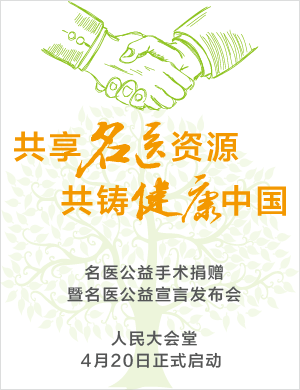
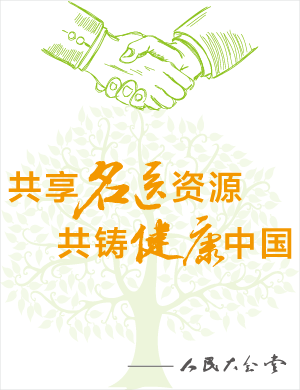
v5 百万公益基金修改

Changed region(s): [[0.03, 0.3077, 0.99, 0.8], [0.27, 0.8308, 0.96, 0.9538]]

diff --git a/themes/v5/css/event-millionfund.css b/themes/v5/css/event-millionfund.css
@@ -1,15 +1,17 @@
 #site-content{padding-bottom:0px!important;}
 .bg-millonfund{background-color:#f6e5cd;}
-#millonfund-content{line-height:1em;padding-bottom:300px;}
-#millonfund-content .header{font-size:21px;color:#21a59c;margin:0 auto;line-height:21px;}
-.mt14{margin-top:14px;}
-.mt16{margin-top:16px;}
-.mt25{margin-top:25px;}
-.mt32{margin-top:32px;}
-.mt46{margin-top:46px;}
-.ml44{margin-left:44px;}
-.color-21a59c{color:#21a59c;}
-.pl7{padding-left:7px!important;}
-.pr6{padding-right:6px!important;}
-#millonfund-content .tag{padding:5px 20px;background-color:#e73828;color:#fff;background-size:300px 200px; }
-#millonfund-content .ten-thousand{background-color:#e73828;color:#fff;}
+.w22{width:22%;}
+.text21{font-size:21px;}
+.color-e50011{color:#e50011;}
+.text16{font-size:16px;}
+.color-19aea5{color:#19aea5;}
+.mb100{margin-bottom:100px;}
+.mt-130{margin-top:-130px;}
+#millonfund .main-content .red-heading{font-size:21px;color:#e50011;}
+#millonfund .main-content .img-middle{margin-top:-215px;}
+#millonfund .main-content .img-middle>img{display:inline-block;}
+#millonfund .apply .number-mark{background-color:#f8b62c;width:20px;height:20px;border-radius:10px;color:#fff;display:inline-block;text-align:center;margin-left:-25px;margin-right:5px;}
+.table-top-yellow-mark{background-color:#f8b62c;color:#fff;display:inline-block;width:300px;height:40px;border-radius:4px;font-size:21px;padding-top:4px;margin-bottom:20px;}
+.millonfund-table>thead>tr>th{border-bottom:none!important;}
+.millonfund-table>tbody>tr>td{border-bottom:1px solid #777!important;}
+.bg-fad5a9{background-color:#fad5a9;}

diff --git a/themes/v5/css/mygy.css b/themes/v5/css/mygy.css
@@ -1,5 +1,5 @@
 #site-content{padding-bottom:0!important;}
-.mygy-header{background:url(../images/mygy/bg-sun.jpg) no-repeat 100% 100%;height:600px;}
+.mygy-header{background:url(http://7xsq2z.com2.z0.glb.qiniucdn.com/146181214352032) no-repeat 100% 100%;height:600px;}
 .mygy-header div{vertical-align:middle;padding-top:167px;}
 #mygy{background-color:#f7f7f7;padding-bottom:100px;}
 #mygy .question .header{background-color:#87ccc5;padding:20px 20px 15px;font-size:24px;color:#fff;}
@@ -11,6 +11,7 @@
 #mygy .flowChart .content{padding:25px 22px 0;}
 #mygy .flowChart .content .color-555{color:#555;}
 #mygy .flowChart{background-color:#fff;}
+#mygy .news>img{cursor:pointer;}
 #mygy .news .title{text-align:center;font-size:24px;border-bottom:1px dashed #dcdcdd;margin-bottom:5px;border:1px solid #dcdcdd;}
 
 #mygy .cutover .line-btn{border-bottom:5px solid #dcdcdd;width:50px;display:inline-block;height:10px;}

diff --git a/themes/v5/views/event/pages/millionfund.php b/themes/v5/views/event/pages/millionfund.php
@@ -1,49 +1,100 @@
 <?php
 $urlResImage = Yii::app()->theme->baseUrl . "/images/";
-$urlQuickBook = $this->createUrl('booking/quickbook');
-Yii::app()->clientScript->registerCssFile(Yii::app()->theme->baseUrl . "/css/event-millionfund.css");
+Yii::app()->clientScript->registerCssFile(Yii::app()->theme->baseUrl . "/css/event-millionfund.css?v=" . time());
 ?>
-<div class="container-fluid pt30 bg-millonfund">
-    <div class="row">
-        <img src="<?php echo $urlResImage; ?>event/millionfund/header.png" class="img-responsive" alt="" />
+<div class="container-fluid pt30 bg-millonfund" id="millonfund">
+    <img src="http://7xsq2z.com2.z0.glb.qiniucdn.com/146183901301572" class="img-responsive"/>
+    <div class="text-center main-content">
+        <div class="img-middle"><img src="http://7xsq2z.com2.z0.glb.qiniucdn.com/146183901297115" class="img-responsive"/></div>
+        <div class="mt-130">
+            <div>名医主刀通过整合全国优质医疗资源</div>
+            <div class="mt10">从顶尖专家到闲置床位</div>
+            <div class="mt10">并借助资本力量和品牌影响力</div>
+            <div class="mt10">为有手术需求的患者提供公益支持和帮助</div>
+        </div>
+        <div class="red-heading mt20"><strong class="mr50">100万公益基金</strong><strong>100位手术患者</strong></div>
+        <div class="text21 mt20"><strong>我们向手术有困难的每位患者提供1万元人民币的专家手术费资助</strong></div>
+        <div class="text21"><strong>如情况更为特殊，我们会额外增资</strong></div>
+
     </div>
+    <div class="row mt30">
+        <div class="container">
+            <div class="row">
+                <div class="col-md-1">
+                </div>
+                <div class="col-md-5">
+                    <div class="apply"><span class="number-mark">1</span>申请方式一：</div>
+                    <div class="mt10">拨打服务热线400-6277-120并告知名医助手申请资助。</div>
+                </div>
+                <div class="col-md-6">
+                    <div class="apply"><span class="number-mark">2</span>申请方式二：</div>
+                    <div class="mt10">直接在线（网站/App/微信）预约专家，客服回访确认时提出资助需求。</div>
+                </div>
+            </div>
+        </div>
+    </div>
+    <div class="text-center mt30 color-e50011 text16">*名医助手将对您的病例和申请进行审核，如未通过，我们也将全力帮助您安排到顶尖专家尽快进行手术。</div>
+    <div class="row"><img src="http://7xsq2z.com2.z0.glb.qiniucdn.com/14618390128216" class="img-responsive"/></div>
+
 </div>
 <div class="container-fluid bg-millonfund">
     <div class="row">
         <div class="container">
             <div class="row">
-                <div id="millonfund-content" class="text-center">
-                    <div class="header">“名医主义”--名医主刀旗下医疗公益项目</div>
-                    <div class="mt16">通过整合全国优质医疗资源</div>
-                    <div class="mt14">借助资本力量和品牌影响力</div>
-                    <div class="mt14">为有手术需求的患者提供公益支持和帮助</div>
-
-                    <div class="mt46">如果你还在为找不到专家而发愁</div>
-                    <div class="mt14">如果你还在为等不到床位而苦恼</div>
-                    <div class="mt14">如果你还在为手术费用而烦忧</div>
-                    <div class="mt14">那么就来<span class="color-21a59c">“名医主义”</span></div>
-
-                    <div class="mt46">“名医主义”将为手术患者提供:</div>
-                    <div class="clearfix mt25"><span class="tag">专家资源</span><span class="tag ml44">床位资源</span><span class="tag ml44">保险服务</span><span class="tag ml44 pl7 pr6">100万公益金</span></div>
-
-                    <div class="mt30">百万基金将用于</div>
-                    <div class="mt14">为患者提供手术治疗的专家费用</div>
-                    <div class="mt14">每位患者可获得<span class="ten-thousand inline-block">“一万”</span>元专家手术费的资助</div>
-                    <div class="mt14">若患者情况特殊还可向百万基金申请额外增资</div>
-
-                    <div class="mt46">
-                        <img src="<?php echo $urlResImage; ?>event/millionfund/step-01.png" alt="" />
-                    </div>
-                    <div class="col-sm-1"></div>
-                    <div class="col-sm-4" style="margin-left:20px;">
-                        <div class="text-left"><div class="mt32">1.网站</div><div class="mt14">2.APP</div><div class="mt14">3.微信公众号(在搜索栏中输入“名医主刀”即可)</div><div class="mt14">4.服务热线 <span class="color-21a59c strong">400-6277-120</span></div>
-                        </div>
-                    </div>
-                    <div class="col-sm-4"></div>
-                    <div class="col-sm-3 text-left" style="margin-left:-20px;"><div class="mt32">"名医主义"评估委员会将</div><div class="mt14">对您提交的病例和申请进行审核</div><div class="mt14">审核通过后客服会立即联系您</div><div class="mt14">为您尽快安排手术</div></div>
+                <div class="text-center"><div class="table-top-yellow-mark">目前获得资助的患者：</div></div>
+                <div>
+                    <table class="table millonfund-table">
+                        <thead>
+                            <tr class="bg-fad5a9"><th>申请日期</th><th>患者姓名</th><th class="w22">疾病诊断</th><th>对接专家</th><th>所在医院</th><th>手术日期</th><th>资助费用</th></tr>
+                        </thead>
+                        <tbody>
+                            <tr>
+                                <td>2016.01.11</td><td>陈*聪</td><td>腺样体肥大</td><td>刘大波</td><td>广州市妇女儿童医疗中心</td><td>2016.01.13</td><td>费用10000元</td>
+                            </tr>
+                            <tr>
+                                <td>2016.01.13</td><td>欧*秋</td><td>鼻咽癌放疗后</td><td>史剑波</td><td>广州中山大学附属第一医院</td><td>2016.01.15</td><td>费用10000元</td>
+                            </tr>
+                            <tr>
+                                <td>2016.01.14</td><td>戴*丽</td><td>腰椎间盘突出症</td><td>顾昕</td><td>上海第十人民医院</td><td>2016.01.22</td><td>费用10000元</td>
+                            </tr>
+                            <tr>
+                                <td>2016.01.19</td><td>潘*枝</td><td>双股骨头坏死</td><td>史占军</td><td>广州南方医院</td><td>2016.01.20</td><td>费用10000元</td>
+                            </tr>
+                            <tr>
+                                <td>2016.01.20</td><td>张*鸠</td><td>左中耳炎</td><td>张志钢</td><td>广州中山大学附属第二医院</td><td>2016.01.29</td><td>费用10000元</td>
+                            </tr>
+                            <tr>
+                                <td>2016.01.20</td><td>崔*良</td><td>胆管癌</td><td>张永杰</td><td>上海东方肝胆外科医院</td><td>2016.01.28</td><td>费用10000元</td>
+                            </tr>
+                            <tr>
+                                <td>2016.01.23</td><td>渝*平</td><td>垂体腺瘤卒中</td><td>周涛</td><td>北京301医院</td><td>2016.01.23</td><td>费用10000元</td>
+                            </tr>
+                            <tr>
+                                <td>2016.01.26</td><td>戴*培</td><td>食管癌</td><td>谭黎杰</td><td>上海中山医院</td><td>2016.02.01</td><td>费用10000元</td>
+                            </tr>
+                            <tr>
+                                <td>2016.01.28</td><td>马*荣</td><td>十二指肠肿物</td><td>别平</td><td>重庆西南医院</td><td>2016.01.31</td><td>费用10000元</td>
+                            </tr>
+                            <tr>
+                                <td>2016.01.29</td><td>平**扎</td><td>斜视</td><td>乔彤</td><td>上海儿童医院</td><td>2016.02.01</td><td>费用10000元</td>
+                            </tr>
+                            <tr>
+                                <td>2016.02.19</td><td>熊*根</td><td>左侧复发性腹股沟疝</td><td>顾岩</td><td>上海第九人民医院</td><td>2016.02.19</td><td>费用10000元</td>
+                            </tr>
+                            <tr>
+                                <td>2016.02.23</td><td>邓*胜</td><td>视网膜脱离</td><td>江睿</td><td>上海五官科医院</td><td>2016.02.26</td><td>费用10000元</td>
+                            </tr>
+                            <tr>
+                                <td>2016.03.15</td><td>付*</td><td><div title="左膝前叉韧带断裂左膝半月板损伤，痛风，滑膜炎">左膝前叉韧带断裂左膝半月板损伤...</div></td><td>陈世益</td><td>上海华山医院</td><td>2016.03.24</td><td>费用10000元</td>
+                            </tr>
+                            <tr>
+                                <td>2016.03.28</td><td>曹*武</td><td>左侧气胸</td><td>刘彦国</td><td>北京大学人民医院</td><td>2016.03.28</td><td>费用10000元</td>
+                            </tr>
+                        </tbody>
+                    </table>
                 </div>
+                <div class="text-center color-19aea5 text16 mb100">名额更新中...</div>
             </div>
         </div>
     </div>
-</div>
 </div>
